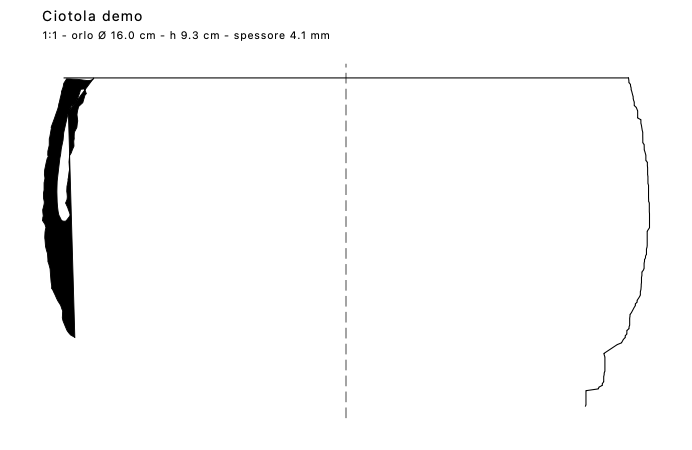
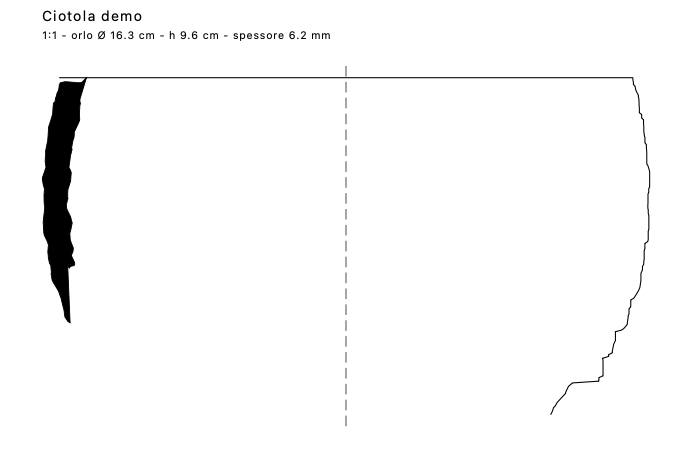
docs: orthophoto at full resolution and patches; screenshots of the current interface
New screenshots on a demo in a neutral folder: start page, layers and PyArchInit, connection, the bowl, its profile, a turntable photo (now shown in the README) and the patch dialog.

diff --git a/README.md b/README.md
@@ -106,14 +106,17 @@ interface writes a log in `~/Library/Logs/pyarchinit-photogrammetry` (macOS),
 | | |
 | --- | --- |
 | ![Start page](docs/img/gui-start.png) | ![Layers, sections and PyArchInit](docs/img/gui-layers.png) |
-| ![Connection to PyArchInit](docs/img/connect.png) | ![IFC elements per stratigraphic unit](docs/img/ifc-units.png) |
+| ![Connection to PyArchInit](docs/img/connect.png) | ![Assign photos to an area of the orthophoto](docs/img/gui-patch.png) |
 | ![Bowl from the turntable demo](docs/img/gui-pottery.png) | ![Profile drawing of the bowl](docs/img/demo-profile.png) |
+| ![A synthetic turntable photo](docs/img/demo-turntable.jpg) | ![IFC elements per stratigraphic unit](docs/img/ifc-units.png) |
 
-Top right: the orthomosaic/DEM view with the US polygons loaded from PyArchInit, contour lines
-and a section trace as layers, the *Sezioni* pane with the drawing, and the PyArchInit pane.
-Middle right: the IFC export opened with IfcOpenShell, one element per unit. Bottom: the bowl
-of the turntable demo reconstructed from 32 synthetic photos and its profile drawing (rim
-16.0 cm measured against 16.0 cm true).
+First row, right: the DEM view with the US polygons loaded from PyArchInit, contour lines and a
+section trace as layers, the *Sezioni* pane with the drawing, and the PyArchInit pane. Second
+row, right: a patch of the orthophoto - the photos that frame the area, best first, each with
+the area as it would come out. Third row: the bowl of the turntable demo reconstructed from 32
+synthetic photos (one of them below) and its profile drawing (rim 16.3 cm measured against
+16.0 cm true, wall 6.2 mm against 6 mm). Last, right: the IFC export opened with IfcOpenShell,
+one element per unit.
 
 ## Working with QGIS, Metashape, WebODM and Photo3D
 
@@ -190,6 +193,31 @@ is installed on first use (PyTorch in a separate environment, see the same page)
 
 Command line: `ppg confidence`, `ppg clean-cloud`, `ppg clean-model`, `ppg clean-tie-points`,
 `ppg crop`, `ppg relink`, `ppg export --bbox/--wkt` (see `--help`).
+
+## Orthophoto at full resolution, and patches
+
+* **Full resolution in the view**: a large orthophoto or DEM opens from a reduced copy (one of
+  its overviews) and, when you zoom in, the visible part is read again from the file at the
+  resolution of the screen, up to the full one: the 45,000 px orthophoto of a tell opens in under
+  a second and shows its 1.35 cm pixels in a third of a second.
+* **Assign photos to an area** (patches, as in Metashape): draw an area on the orthophoto (*Patch*
+  in the drawing bar: drag a box or click a polygon) or use a selected polygon. The photos that
+  frame it are listed best first, each with the area as it would come out, its angle from the
+  vertical, its ground pixel and how much of the area the orthophoto takes from it now. Use only
+  the chosen photos, or every photo but them; on the DEM (a true orthophoto) or on the ground
+  around the area: trees, vehicles and people come out as the photo shows them instead of
+  swirls over a DEM that does not fit them, and holes of the DEM inside the area are filled.
+* Only the cells of the patch are drawn again, with the overviews of that window (2 seconds on
+  the tell, instead of a minute for all the overviews). Patches stay in the project (layer
+  *Patch ortofoto*: select one and press Delete to take it away) and apply to every later build;
+  an orthophoto of another program is copied first, and its pixels come back when a patch is
+  removed.
+* **The texture too**: the same patch can correct the texture of the model in the area, and the
+  lasso in the 3D view offers *Correggi la texture di queste facce* (each face from the best of
+  the chosen photos that sees it).
+
+Command line: `ppg patch PROJECT --bbox ... --suggest` lists the photos of an area, `--photos A,B`
+(with `--exclude`, `--ground`, `--texture`) adds a patch, `--list`, `--remove ID|all`.
 
 ## Desktop interface
 

diff --git a/docs/gui.md b/docs/gui.md
@@ -100,13 +100,43 @@ clipboard.
   cut/fill volumes (drawn unit, plane or second DEM); plan slice at a given elevation;
   pottery profile from a mesh (vessel or sherd); point-cloud classification; Segment Anything
   2.1 (automatic candidate units, units from clicked points, prompts on photos); IFC export
-  (one element per drawn unit, PyArchInit attributes when connected); run a Python script.
+  (one element per drawn unit, PyArchInit attributes when connected); run a Python script;
+  *Patch dell'ortofoto (assegna immagini)*: draw an area and choose its photos, assign photos to
+  the selected polygon, update the orthomosaic with the patches, remove every patch (see below).
 * **PyArchInit**: connect through `config.cfg` (or a SQLite path / PostgreSQL URL), use the
   demo database, publish orthomosaic/DEM/model with links to US, publish drawn units to
   `pyunitastratigrafiche`, load existing unit polygons onto the orthomosaic, publish spot
   heights to `pyarchinit_quote`.
 * **Vista**: panes, views (F2 model, F3 orthomosaic/DEM, F4 photo), console (Ctrl+Shift+P), theme.
 * **Aiuto**: online documentation, environment diagnosis, log folder, about.
+
+## Orthophoto at full resolution and patches
+
+* **Zoom**: the orthomosaic/DEM view opens a large raster from a reduced copy (at most 6,000 px a
+  side, one of the overviews of the file) and, when the zoom pauses beyond that resolution, reads
+  the visible area again (plus a margin) at the resolution of the screen, up to the full one, in a
+  thread. The DEM detail keeps the colour limits of the whole DEM. Tell Abu adh-Dhuhur (44,952 px):
+  0.7 s to open, 10.8 cm/px before the detail, 1.38 cm/px after 0.37 s.
+* **Patch** (drawing bar, or *Strumenti > Patch dell'ortofoto*): drag a box or click the vertices
+  of a polygon and double click, or select a polygon (a unit) and choose *Assegna immagini a
+  quest'area* from its menu. The dialog shows the area now and, for the photo chosen in the list,
+  the area as it would come out (the rest as it is); the list has the photos that frame the area,
+  best first (framed share x closeness, verticality and centrality), with the share framed, the
+  angle from the vertical, the ground pixel, the share of the area the orthomosaic takes from it
+  now, and in the tooltip how much of it the model hides (tree crowns, walls). Choose one or more
+  photos (Shift/Cmd), *Usa solo* or *Escludi*, *Sul DEM* (a true orthophoto) or *Sul suolo attorno
+  all'area* (heights along the polygon interpolated inside: trees, vehicles and people come out
+  as in the photo, and holes of the DEM are filled), and optionally the texture of the model in
+  the area. *Applica* saves the patch and redraws only its cells, then the overviews of that
+  window; the view stays where it was.
+* The patches are a layer, *Patch ortofoto*: select one and press Delete (or *Elimina selezionati*)
+  and the orthomosaic is redrawn there without it. A later build of the orthomosaic applies every
+  patch again; *Aggiorna l'ortofoto con le patch* applies the ones not applied yet (after an
+  interrupted update). An orthomosaic of another program (exported by Metashape) is copied into
+  the chunk folder at the first patch, and its pixels come back where a patch is removed.
+* **Texture**: in the 3D view, the lasso on the model offers *Correggi la texture di queste facce
+  (assegna le immagini)*: the photos that see those faces, each with the part of the photo where
+  they are; every face takes the best of the chosen photos that sees it.
 
 ## Demo
 

diff --git a/docs/api.md b/docs/api.md
@@ -184,6 +184,25 @@ fixes models written by earlier versions (done before the depth maps and the cam
 size, the tiles in parallel, each from the photos that see it best; cells that every photo sees
 from further than `max_angle` degrees from the vertical stay transparent.
 
+## Patches of the orthomosaic and of the texture
+
+A patch takes the colours of an area of the orthomosaic from photos chosen by hand: a dict in
+`chunk.meta["orthomosaic"]["patches"]`, `{"id", "polygon" [[x, y], ...] (chunk CRS), "photos"
+[labels], "mode" "assign"|"exclude", "surface" "dem"|"ground"}` (a later patch covers an earlier one).
+
+| Call | Description |
+| --- | --- |
+| `chunk.add_ortho_patch(polygon, photos, mode="assign")`, `engine.patches.add_patch(chunk, polygon, photos, mode, surface="dem")` | a new patch; `surface="ground"` projects the area on the ground around it (heights along the polygon, inverse-distance weighted inside) instead of the DEM: trees and vehicles as the photo shows them, holes of the DEM filled |
+| `chunk.update_orthomosaic(progress=None, skip_unreadable=False)` | redraws only the cells of the patches added, changed or removed since the file was written, then the overviews of those windows (`engine.overviews.refresh`, through rasterio's GDAL; every overview again when it cannot); an orthomosaic of another program is copied into the chunk first and its pixels come back where a patch is removed |
+| `chunk.ortho_patches`, `chunk.remove_ortho_patch(id)`, `engine.patches.clear_patches(chunk)`, `changed_patches(chunk)` | the patches |
+| `engine.patches.photos_for_area(chunk, polygon, limit=12)` | the photos that frame the area, best first: `label`, `coverage`, `visible` (share not hidden by the model), `angle`, `gsd`, `score`, `used` (share the orthomosaic takes from it now) |
+| `engine.patches.previews(chunk, polygon, photos, max_side=320)` | `({(label, surface): RGBA}, now, bounds)`: the area from each photo on each surface, the rest as it is |
+| `chunk.patch_texture(photos, polygon=None, faces=None, mode="assign")`, `engine.patches.photos_for_faces(chunk, faces)`, `preview_faces(chunk, faces, photo)` | colour again the faces of the textured model inside a polygon (seen from above) or chosen by index from the chosen photos; texels no chosen photo sees keep their colour |
+
+`chunk.build_orthomosaic(..., patches=None)` applies the patches of the chunk (pass `[]` to leave
+them out). The photos of every tile are ranked on all its cells, so an update gives the same
+pixels as a build.
+
 ## Modules
 
 | Module | Main functions |

diff --git a/README.it.md b/README.it.md
@@ -179,6 +179,30 @@ si installa al primo uso (PyTorch in un ambiente separato, stessa pagina).
 Da terminale: `ppg confidence`, `ppg clean-cloud`, `ppg clean-model`, `ppg clean-tie-points`,
 `ppg crop`, `ppg relink`, `ppg export --bbox/--wkt` (vedi `--help`).
 
+## Ortofoto a piena risoluzione e patch
+
+* **Piena risoluzione nella vista**: un'ortofoto o un DEM grandi si aprono da una copia ridotta (una
+  delle loro piramidi) e, ingrandendo, la parte visibile viene riletta dal file alla risoluzione dello
+  schermo, fino a quella piena: l'ortofoto di 45.000 pixel di un tell si apre in meno di un secondo e
+  mostra i suoi pixel da 1,35 cm in un terzo di secondo.
+* **Assegnare le foto a un'area** (patch, come in Metashape): disegna un'area sull'ortofoto (*Patch*
+  nella barra di disegno: trascina un riquadro o clicca un poligono) oppure usa un poligono
+  selezionato. Le foto che la inquadrano sono elencate dalla migliore, ognuna con l'area come
+  verrebbe, l'angolo dalla verticale, il pixel a terra e quanto dell'area l'ortofoto prende ora da
+  lei. Usa solo le foto scelte, oppure tutte tranne quelle; sul DEM (ortofoto vera) o sul suolo
+  attorno all'area: alberi, veicoli e persone vengono come li mostra la foto invece dei vortici su un
+  DEM che non li segue, e i buchi del DEM dentro l'area si riempiono.
+* Si ridisegnano solo le celle della patch, con le piramidi di quella finestra (2 secondi sul tell,
+  invece di un minuto per tutte le piramidi). Le patch restano nel progetto (layer *Patch ortofoto*:
+  selezionane una e premi Canc per toglierla) e valgono per ogni costruzione successiva; un'ortofoto
+  di un altro programma viene prima copiata, e togliendo una patch tornano i suoi pixel.
+* **Anche la texture**: la stessa patch può correggere la texture del modello nell'area, e il lazo
+  nella vista 3D propone *Correggi la texture di queste facce* (ogni faccia dalla migliore delle foto
+  scelte che la vede).
+
+Da terminale: `ppg patch PROGETTO --bbox ... --suggest` elenca le foto di un'area, `--photos A,B`
+(con `--exclude`, `--ground`, `--texture`) aggiunge una patch, `--list`, `--remove ID|all`.
+
 ## Schede US, proxy 3D e BIM
 
 * **Schede US**: doppio clic su una US nel pannello PyArchInit apre la scheda (`us_table`) con

diff --git a/docs/roadmap.md b/docs/roadmap.md
@@ -34,7 +34,9 @@ trainable point classifier with reusable models; mesh from the depth maps (TSDF 
 camera optimisation constrained by the control points; chunk alignment and merging; confidence
 of the dense cloud and of the model; cleaning of the dense cloud, the model and the tie points
 (gradual selection); cropping and cropped exports; photos relinked to another folder; large
-orthomosaics built tile by tile.
+orthomosaics built tile by tile and shown at full resolution when zooming in; patches that
+assign photos to areas of the orthomosaic and of the texture (on the DEM or on the ground
+around the area), updated in place with their overviews.
 
 ## 0.6 - Interface
 
